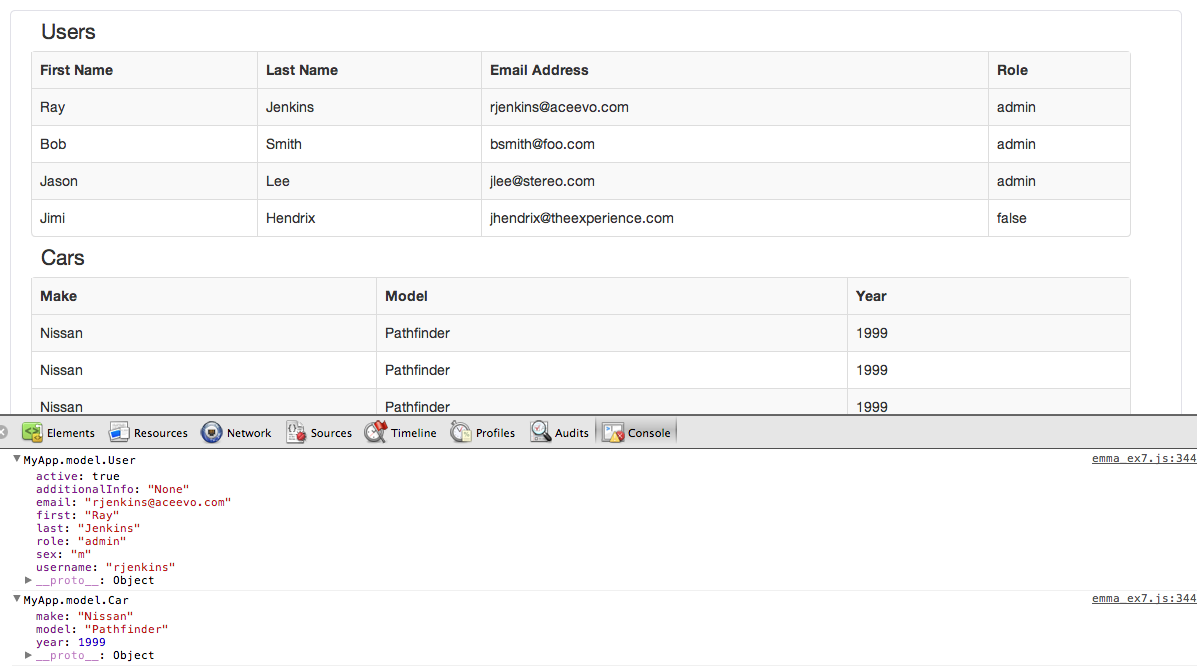
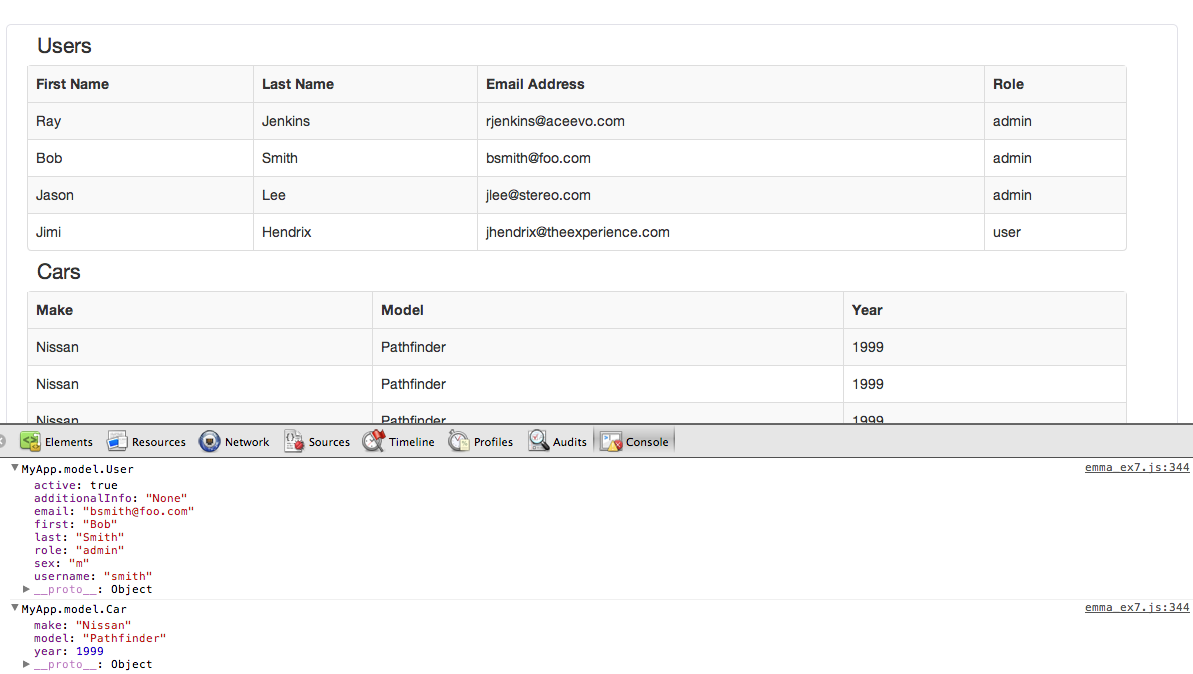
updating example7

diff --git a/src/test/example7/example7.view.js b/src/test/example7/example7.view.js
@@ -29,7 +29,7 @@ $(function () {
       username:"jlee", email:"jlee@stereo.com", sex:"m", additionalInfo:"None", active:true, role:"admin"
     }),
     new MyApp.model.User({ first:"Jimi", last:"Hendrix",
-      username:"jhendrix", email:"jhendrix@theexperience.com", sex:"m", additionalInfo:"None", active:false, role:"false"
+      username:"jhendrix", email:"jhendrix@theexperience.com", sex:"m", additionalInfo:"None", active:false, role:"user"
     })]);
 
   var carResource = new Emma.Resource([new MyApp.model.Car({ make:"Nissan", model:"Pathfinder",

diff --git a/README.md b/README.md
@@ -1834,9 +1834,9 @@ called am ItemProvider.
 
 ## The ItemProvider Pattern
 
-The purpose of the ItemProvider pattern adapt Resources to Widgets. Like Adapters the ItemProvider contain meta data
-needed by the widget for rendering and also retrain a reference to an underlying resource. Like anything else there
-is a few ways we could implement this. One way would be to have a single ItemProvider with lots of different
+The purpose of the ItemProvider pattern is to adapt Resources to Widgets. Like Adapters the ItemProvider contain meta
+data needed by the widget for rendering and also retrain a reference to an underlying resource. Like anything else
+there is a few ways we could implement this. One way would be to have a single ItemProvider with lots of different
 responsibilities or we could break ItemProviders out into different functions based off what they're providing for.
 We'll going to choose the later but you could always choose to consolidate this functionality down to a smaller set
 of objects.
@@ -2167,7 +2167,8 @@ $(function () {
       username:"jlee", email:"jlee@stereo.com", sex:"m", additionalInfo:"None", active:true, role:"admin"
     }),
     new MyApp.model.User({ first:"Jimi", last:"Hendrix",
-      username:"jhendrix", email:"jhendrix@theexperience.com", sex:"m", additionalInfo:"None", active:false, role:"false"
+      username:"jhendrix", email:"jhendrix@theexperience.com", sex:"m", additionalInfo:"None", active:false,
+      role:"user"
     })]);
 
   var carResource = new Emma.Resource([new MyApp.model.Car({ make:"Nissan", model:"Pathfinder",
